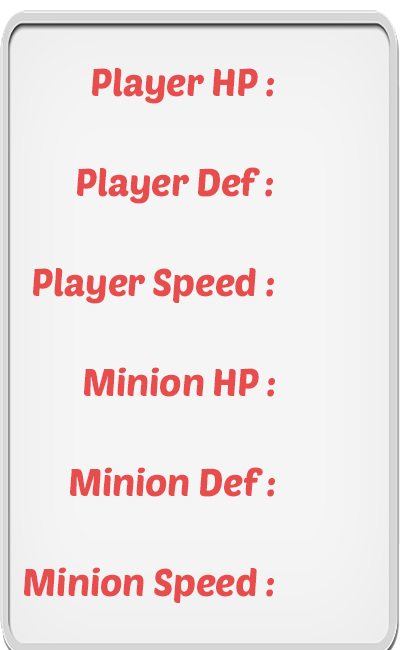
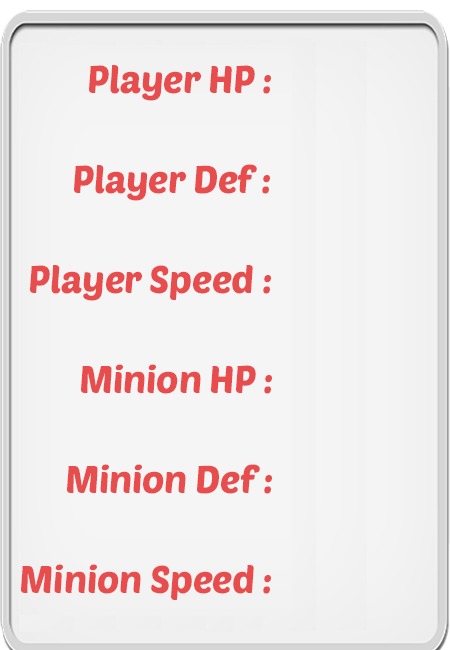
Shop페이지에 플레이어, 미니언 정보 띄우기 완료

diff --git a/Project/Source/InGame/UI/HUD/ShopHUD.cpp b/Project/Source/InGame/UI/HUD/ShopHUD.cpp
@@ -24,8 +24,8 @@ void ShopHUD::initailize()
 	UI::initailize();
 	mCoin = mRenderer.lock()->getTexture("Asset/Image/HUD/coin.png");
 
-	loadCoinNumber();
-	loadPlayerStat();
+	loadStat(mShopScene.lock()->getGameInfo().mControlInfo, mPlayerStat);
+	loadStat(mShopScene.lock()->getGameInfo().mMinionInfo, mMinionStat);
 
 	mReinForceBoard = mRenderer.lock()->getTexture("Asset/Image/ShopScene/Reinforce.png");
 }
@@ -35,17 +35,17 @@ void ShopHUD::loadCoinNumber()
 	setNumberTexture(mCoinNumber, mShopScene.lock()->getGameInfo().mCoin, "Asset/Image/HUD/Num");
 }
 
-void ShopHUD::loadPlayerStat()
+void ShopHUD::loadStat(const PlayerInfo& info, StatNumber& stat)
 {
-	auto hp = mShopScene.lock()->getGameInfo().mControlInfo.getHpStat(PlayerInfo::Type::Control);
-	setNumberTexture(mPlayerStat.mHpNumber, hp, "Asset/Image/ShopScene/Num");
-	
-	auto def = mShopScene.lock()->getGameInfo().mControlInfo.getDefStat(PlayerInfo::Type::Control);
-	auto speed = mShopScene.lock()->getGameInfo().mControlInfo.getSpeedStat(PlayerInfo::Type::Control);
-}
-void ShopHUD::loadMinionStat()
-{
+	const std::string fileName = "Asset/Image/ShopScene/Num";
+	auto hp = info.getHpStat();
+	setNumberTexture(stat.mHpNumber, hp, fileName);
 
+	auto def = info.getDefStat();
+	setNumberTexture(stat.mDefNumber, def, fileName);
+
+	auto speed = info.getSpeedStat();
+	setNumberTexture(stat.mSpeedNumber, speed, fileName);
 }
 
 void ShopHUD::update(float deltatime)
@@ -67,7 +67,12 @@ void ShopHUD::draw(std::unique_ptr<class Shader>& shader)
 
 	drawTexture(shader, mReinForceBoard, Vector2(-wSize.x / 2 + mReinForceBoard->getWidth() / 2 + 50.0f, 0.0f));
 
-	drawNumberTexture(shader, mPlayerStat.mHpNumber, Vector2(-230.0f, wSize.y / 2 - 140.0f), 35.0f);
+	drawNumberTexture(shader, mPlayerStat.mHpNumber, Vector2(-210.0f, wSize.y / 2 - 140.0f), 35.0f);
+	drawNumberTexture(shader, mPlayerStat.mDefNumber, Vector2(-210.0f, wSize.y / 2 - 240.0f), 35.0f);
+	drawNumberTexture(shader, mPlayerStat.mSpeedNumber, Vector2(-210.0f, wSize.y / 2 - 340.0f), 35.0f);
+	drawNumberTexture(shader, mMinionStat.mHpNumber, Vector2(-210.0f, wSize.y / 2 - 440.0f), 35.0f);
+	drawNumberTexture(shader, mMinionStat.mDefNumber, Vector2(-210.0f, wSize.y / 2 - 540.0f), 35.0f);
+	drawNumberTexture(shader, mMinionStat.mSpeedNumber, Vector2(-210.0f, wSize.y / 2 - 640.0f), 35.0f);
 }
 
 

diff --git a/Project/Source/InGame/Info/GameInfo.cpp b/Project/Source/InGame/Info/GameInfo.cpp
@@ -1,8 +1,8 @@
 #include "GameInfo.h"
 
-int PlayerInfo::getHpStat(Type type) const
+int PlayerInfo::getHpStat() const
 {
-	switch (type)
+	switch (mType)
 	{
 	case PlayerInfo::Type::Control:
 		switch (mHpLevel)
@@ -22,9 +22,9 @@ int PlayerInfo::getHpStat(Type type) const
 	}
 }
 
-int PlayerInfo::getDefStat(Type type) const
+int PlayerInfo::getDefStat() const
 {
-	switch (type)
+	switch (mType)
 	{
 	case PlayerInfo::Type::Control:
 		switch (mDefLevel)
@@ -44,9 +44,9 @@ int PlayerInfo::getDefStat(Type type) const
 	}
 }
 
-int PlayerInfo::getSpeedStat(Type type) const
+int PlayerInfo::getSpeedStat() const
 {
-	switch (type)
+	switch (mType)
 	{
 	case PlayerInfo::Type::Control:
 		switch (mSpeedLevel)

diff --git a/Project/Source/InGame/Actor/Player/Type/ControlPlayer.cpp b/Project/Source/InGame/Actor/Player/Type/ControlPlayer.cpp
@@ -48,8 +48,8 @@ void ControlPlayer::actorInput()
 
 void ControlPlayer::setStat(PlayerInfo info)
 {
-	mStat.mMaxHp = static_cast<float>(info.getHpStat(PlayerInfo::Type::Control));
-	mStat.mDef = static_cast<float>(info.getDefStat(PlayerInfo::Type::Control));
-	mStat.mSpeed = static_cast<float>(info.getSpeedStat(PlayerInfo::Type::Control));
+	mStat.mMaxHp = static_cast<float>(info.getHpStat());
+	mStat.mDef = static_cast<float>(info.getDefStat());
+	mStat.mSpeed = static_cast<float>(info.getSpeedStat());
 	mStat.mHp = mStat.mMaxHp;
 }

diff --git a/Project/Source/InGame/Actor/Player/Type/DefaultMinion.cpp b/Project/Source/InGame/Actor/Player/Type/DefaultMinion.cpp
@@ -44,9 +44,9 @@ void DefaultMinion::actorInput()
 
 void DefaultMinion::setStat(PlayerInfo info)
 {
-	mStat.mMaxHp = static_cast<float>(info.getHpStat(PlayerInfo::Type::Minion));
-	mStat.mDef = static_cast<float>(info.getDefStat(PlayerInfo::Type::Minion));
-	mStat.mSpeed = static_cast<float>(info.getSpeedStat(PlayerInfo::Type::Minion));
+	mStat.mMaxHp = static_cast<float>(info.getHpStat());
+	mStat.mDef = static_cast<float>(info.getDefStat());
+	mStat.mSpeed = static_cast<float>(info.getSpeedStat());
 	mStat.mHp = mStat.mMaxHp;
 }
 

diff --git a/Project/Source/InGame/Info/GameInfo.h b/Project/Source/InGame/Info/GameInfo.h
@@ -7,13 +7,15 @@ struct PlayerInfo
 		Control, Minion
 	};
 
+	Type mType;
 	int mHpLevel;
 	int mDefLevel;
 	int mSpeedLevel;
 
-	int getHpStat(Type type) const;
-	int getDefStat(Type type) const;
-	int getSpeedStat(Type type) const;
+	Type getPlayerInfoType() const { return mType; }
+	int getHpStat() const;
+	int getDefStat() const;
+	int getSpeedStat() const;
 };
 
 struct GameInfo

diff --git a/Project/Source/InGame/UI/HUD/ShopHUD.h b/Project/Source/InGame/UI/HUD/ShopHUD.h
@@ -34,8 +34,7 @@ private:
 
 private:
 	void loadCoinNumber();
-	void loadPlayerStat();
-	void loadMinionStat();
+	void loadStat(const struct PlayerInfo& info, StatNumber& stat);
 
 	void setNumberTexture(vTexSet& texture, int info, const std::string& fileName);
 	void drawNumberTexture(std::unique_ptr<class Shader>& shader, const vTexSet& texture, const Vector2& pos, float gap);
